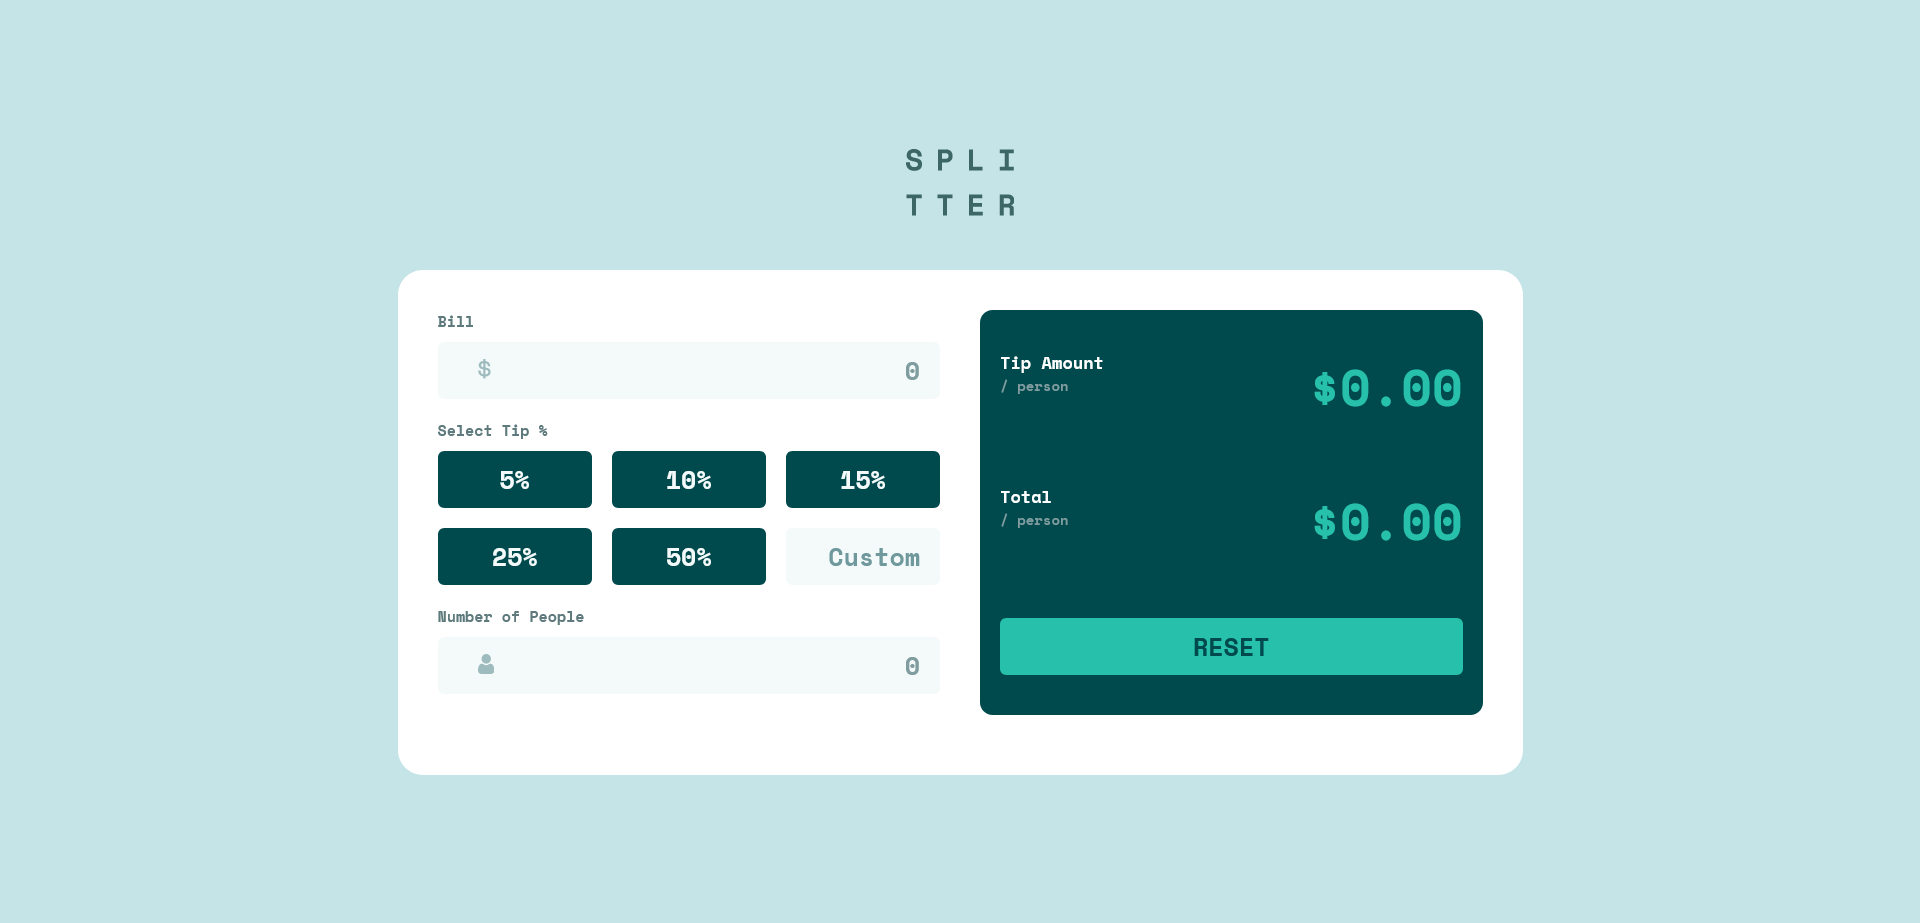
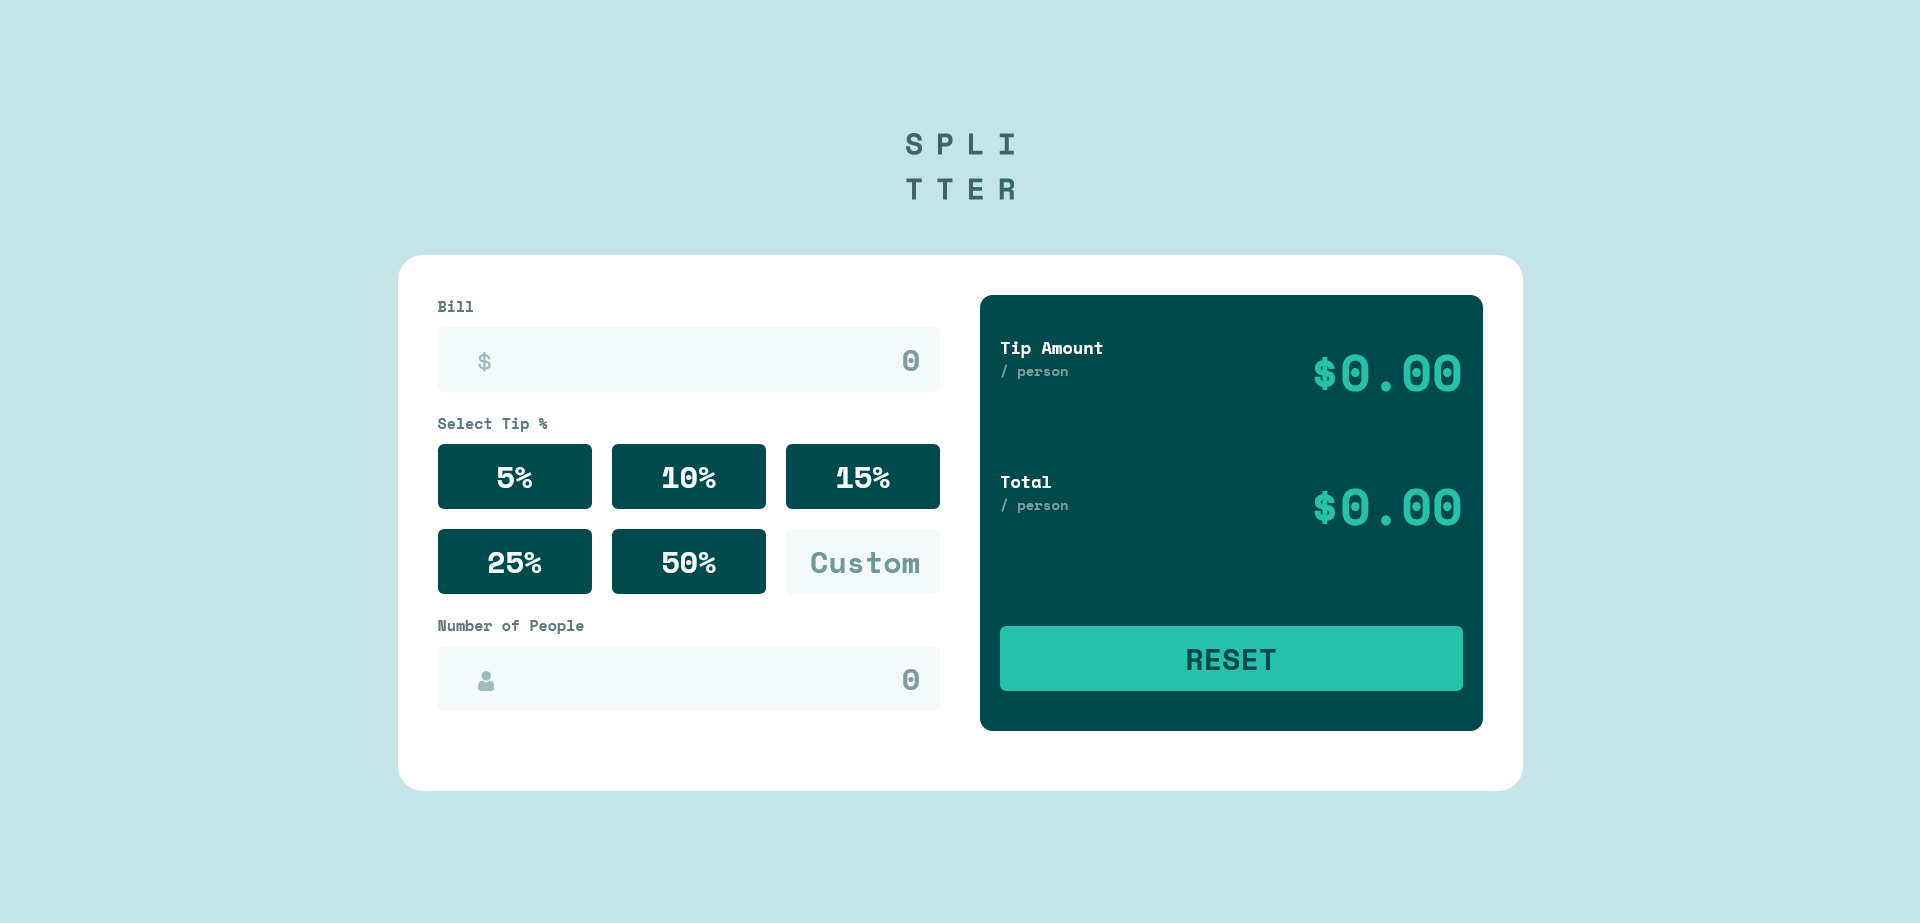
continuous improvement

diff --git a/tip-calculator-app/styles/s.css b/tip-calculator-app/styles/s.css
@@ -222,6 +222,13 @@ h6 {
     grid-template-columns: repeat(3, minmax(0, 1fr));
   }
 
+  .user-input,
+  .custom-tip,
+  .btn-tip,
+  .btn-reset {
+    font-size: 1.5rem;
+  }
+
   .result {
     gap: 2rem;
   }
